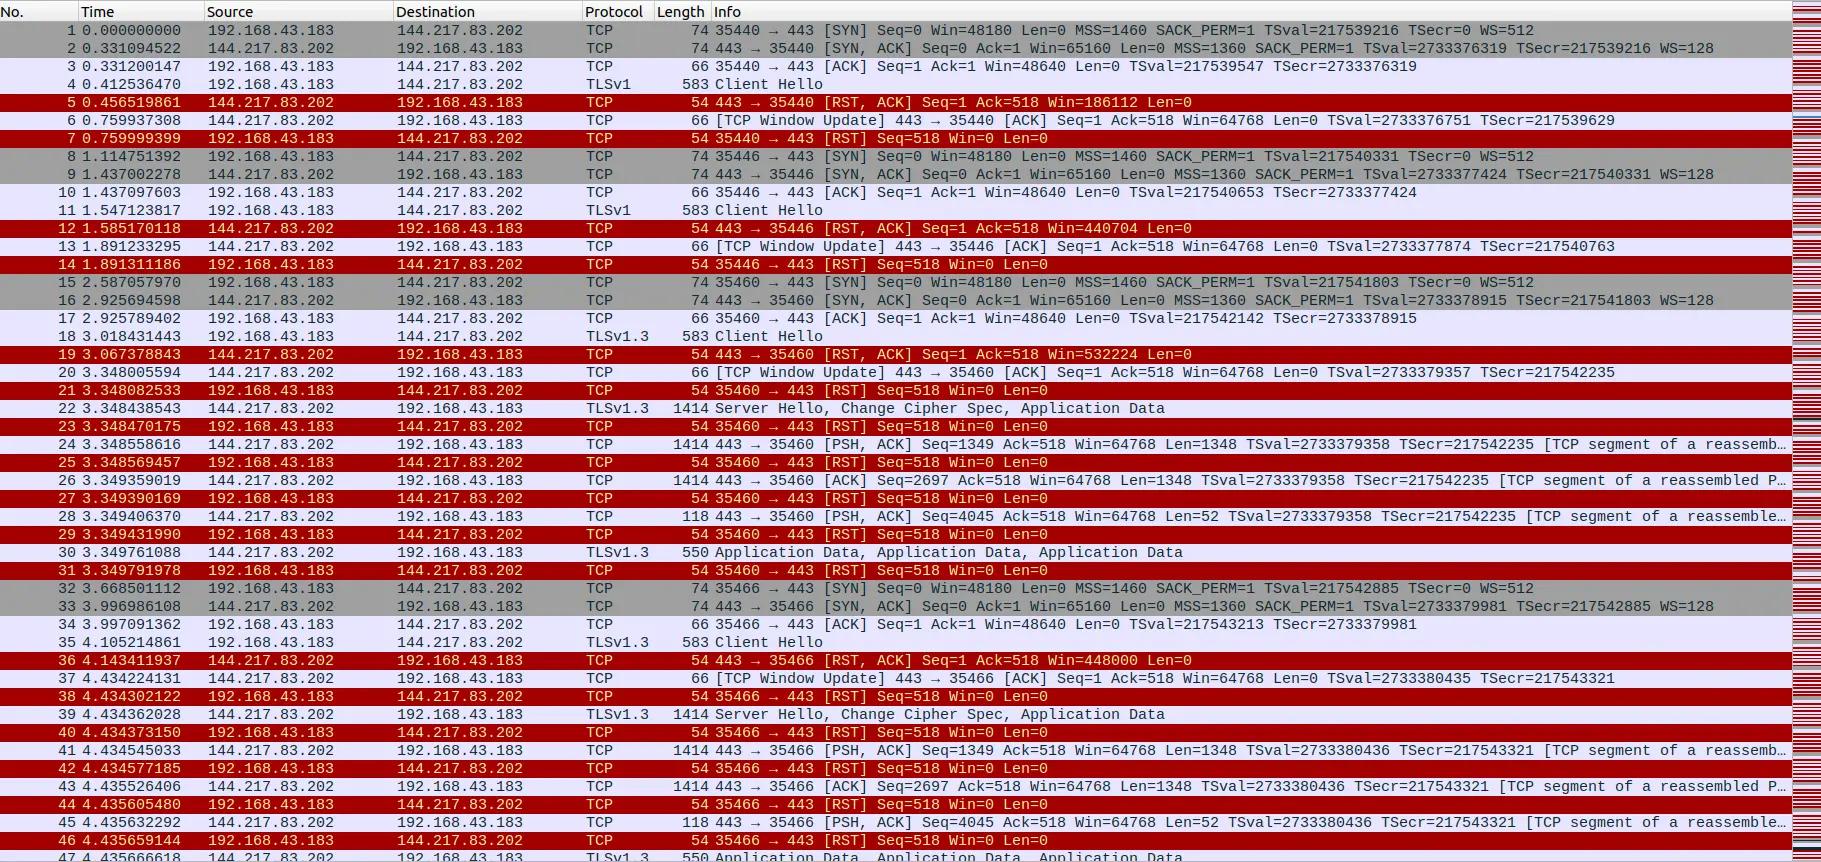
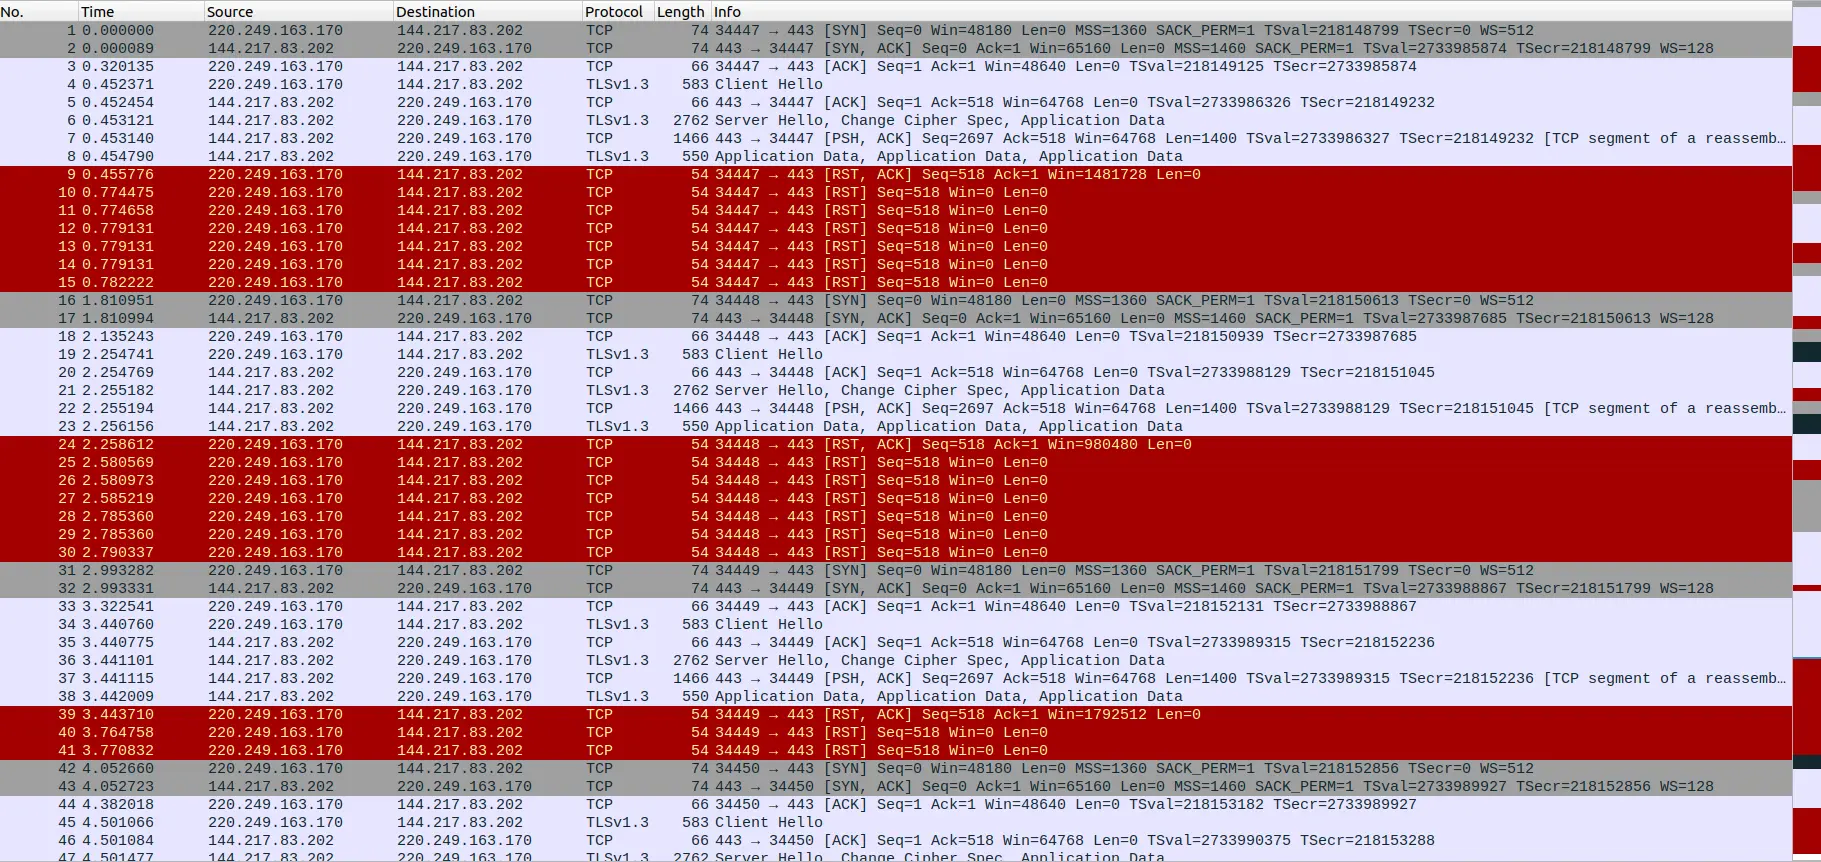
fix blog article

diff --git a/blog-source/4# 2023年新春隨筆：淺析省牆/4# 2023年新春隨筆：淺析省牆.md b/blog-source/4# 2023年新春隨筆：淺析省牆/4# 2023年新春隨筆：淺析省牆.md
@@ -68,6 +68,8 @@ iptables -t mangle -F
 
 Server 可以接收到 Client Hello 說明干擾方式僅為旁路 `RST+ACK`。查看干擾包 TTL 發現幾乎隨機且均較大。
 
+（註：圖中不帶 `ACK` 的 `RST` 是收到 `RST+ACK` 干擾並斷開連接後，收到非握手報文時的正常回應）
+
 省牆是否替代了國際 GFW 呢？當然沒有。下圖是 `curl bbc.com` 發生的超級熟悉的 GFW 阻斷。實際上類似上文的 iptables 改包測試結果也證明阻斷發生在國際出口（此處抓包略）。
 
 ![BBC http packet analysis](images/Wireshark_test2.webp)
